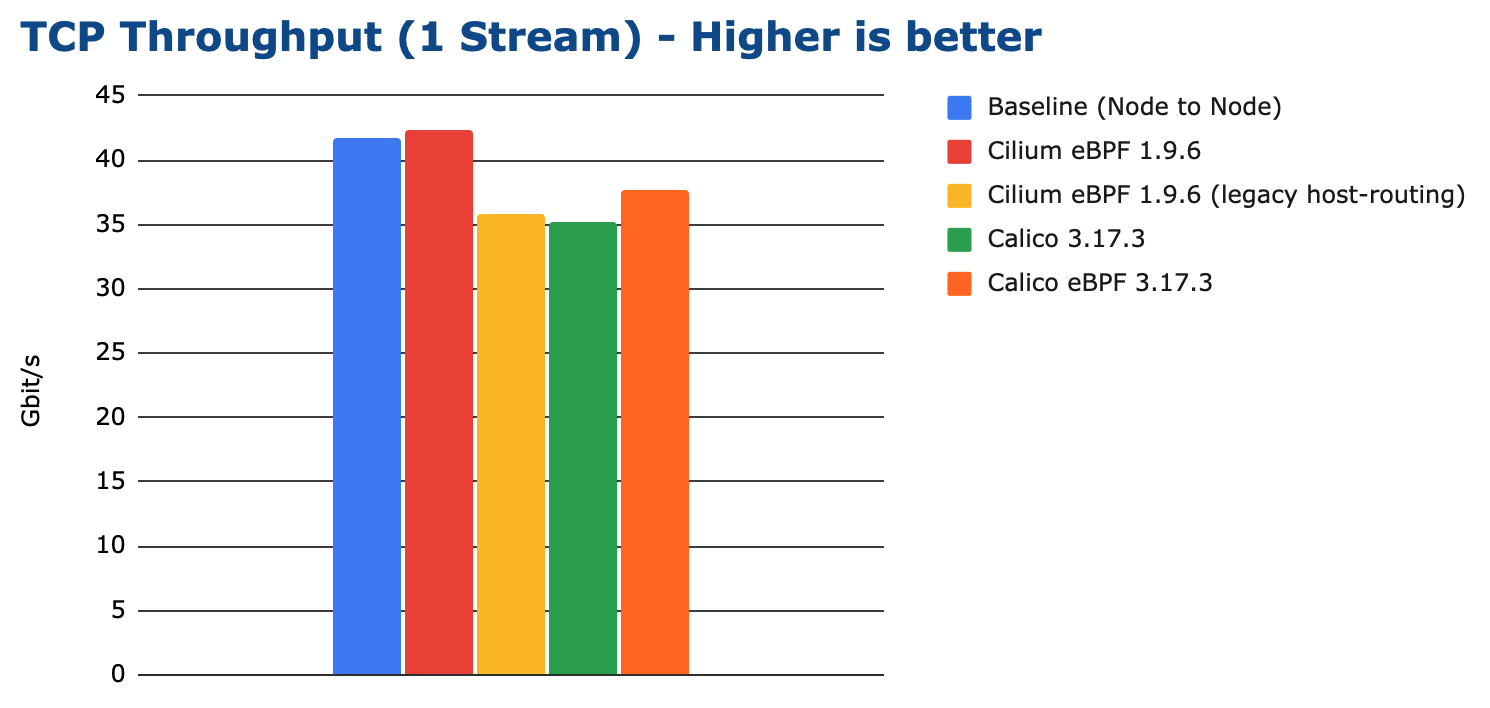
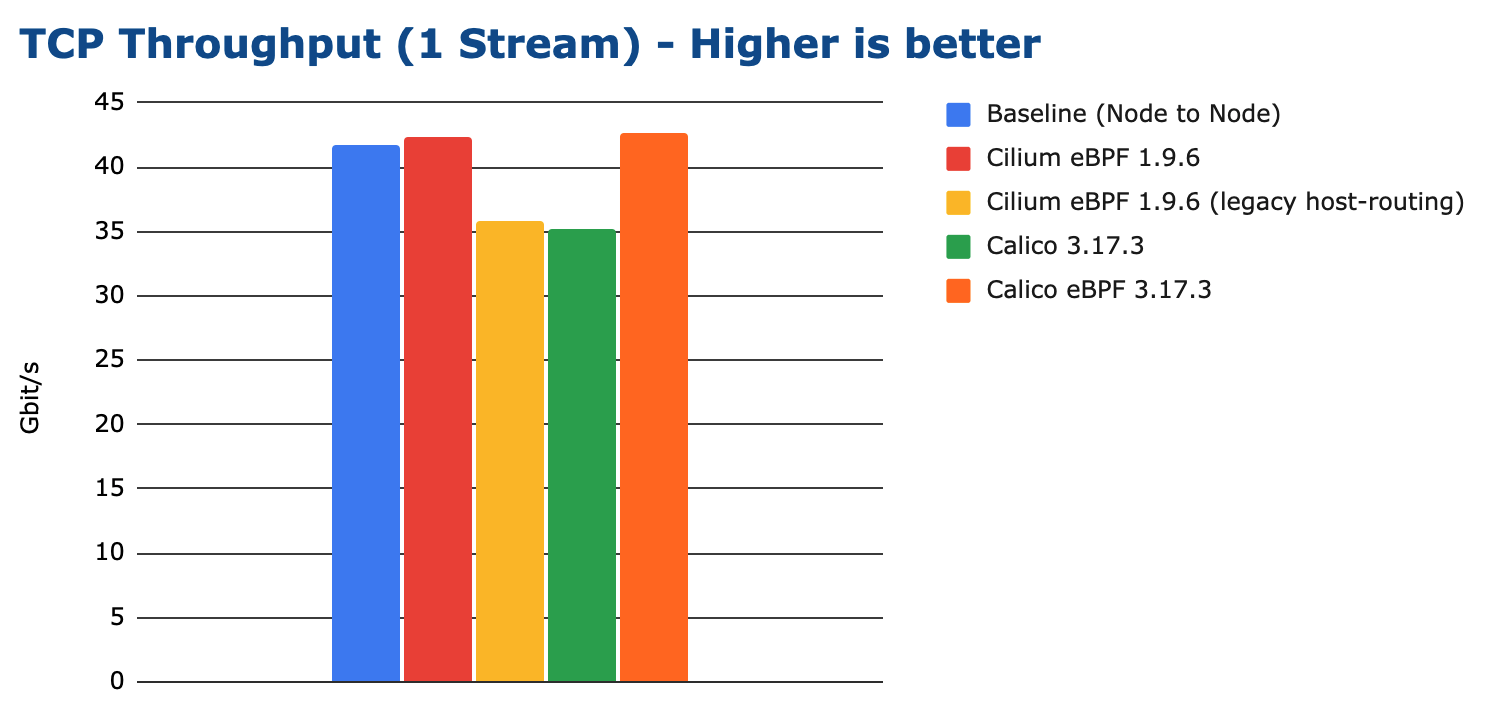
doc: Update benchmark results

diff --git a/Documentation/operations/performance/benchmark.rst b/Documentation/operations/performance/benchmark.rst
@@ -73,11 +73,11 @@ throughput is achieved:
 
 .. image:: images/bench_tcp_stream_1_stream.png
 
-When running in the fastest datapath option, Cilium can outperform even the
-node-to-node baseline despite performing additional work (forwarding into the
-network namespace of the container, policy enforcement, ...). This is because
-Cilium is capable of bypassing the iptables layer of the node which is still
-traversed for the node to node baseline.
+We can see that eBPF-based solutions can outperform even the node-to-node
+baseline on modern kernels despite performing additional work (forwarding
+into the network namespace of the container, policy enforcement, ...). This is
+because eBPF is capable of bypassing the iptables layer of the node which is
+still traversed for the node to node baseline.
 
 The following graph shows the total CPU consumption across the entire system
 while running the benchmark, normalized to a 50Gbit throughput:
@@ -131,8 +131,8 @@ one request is counted:
 
 .. image:: images/bench_tcp_rr_1_process.png
 
-Cilium achieves almost the same request/response rate as the baseline while only
-consuming marginally more CPU resources:
+eBPF on modern kernels can achieve almost the same request/response rate as the
+baseline while only consuming marginally more CPU resources:
 
 .. image:: images/bench_tcp_rr_1_process_cpu.png
 
